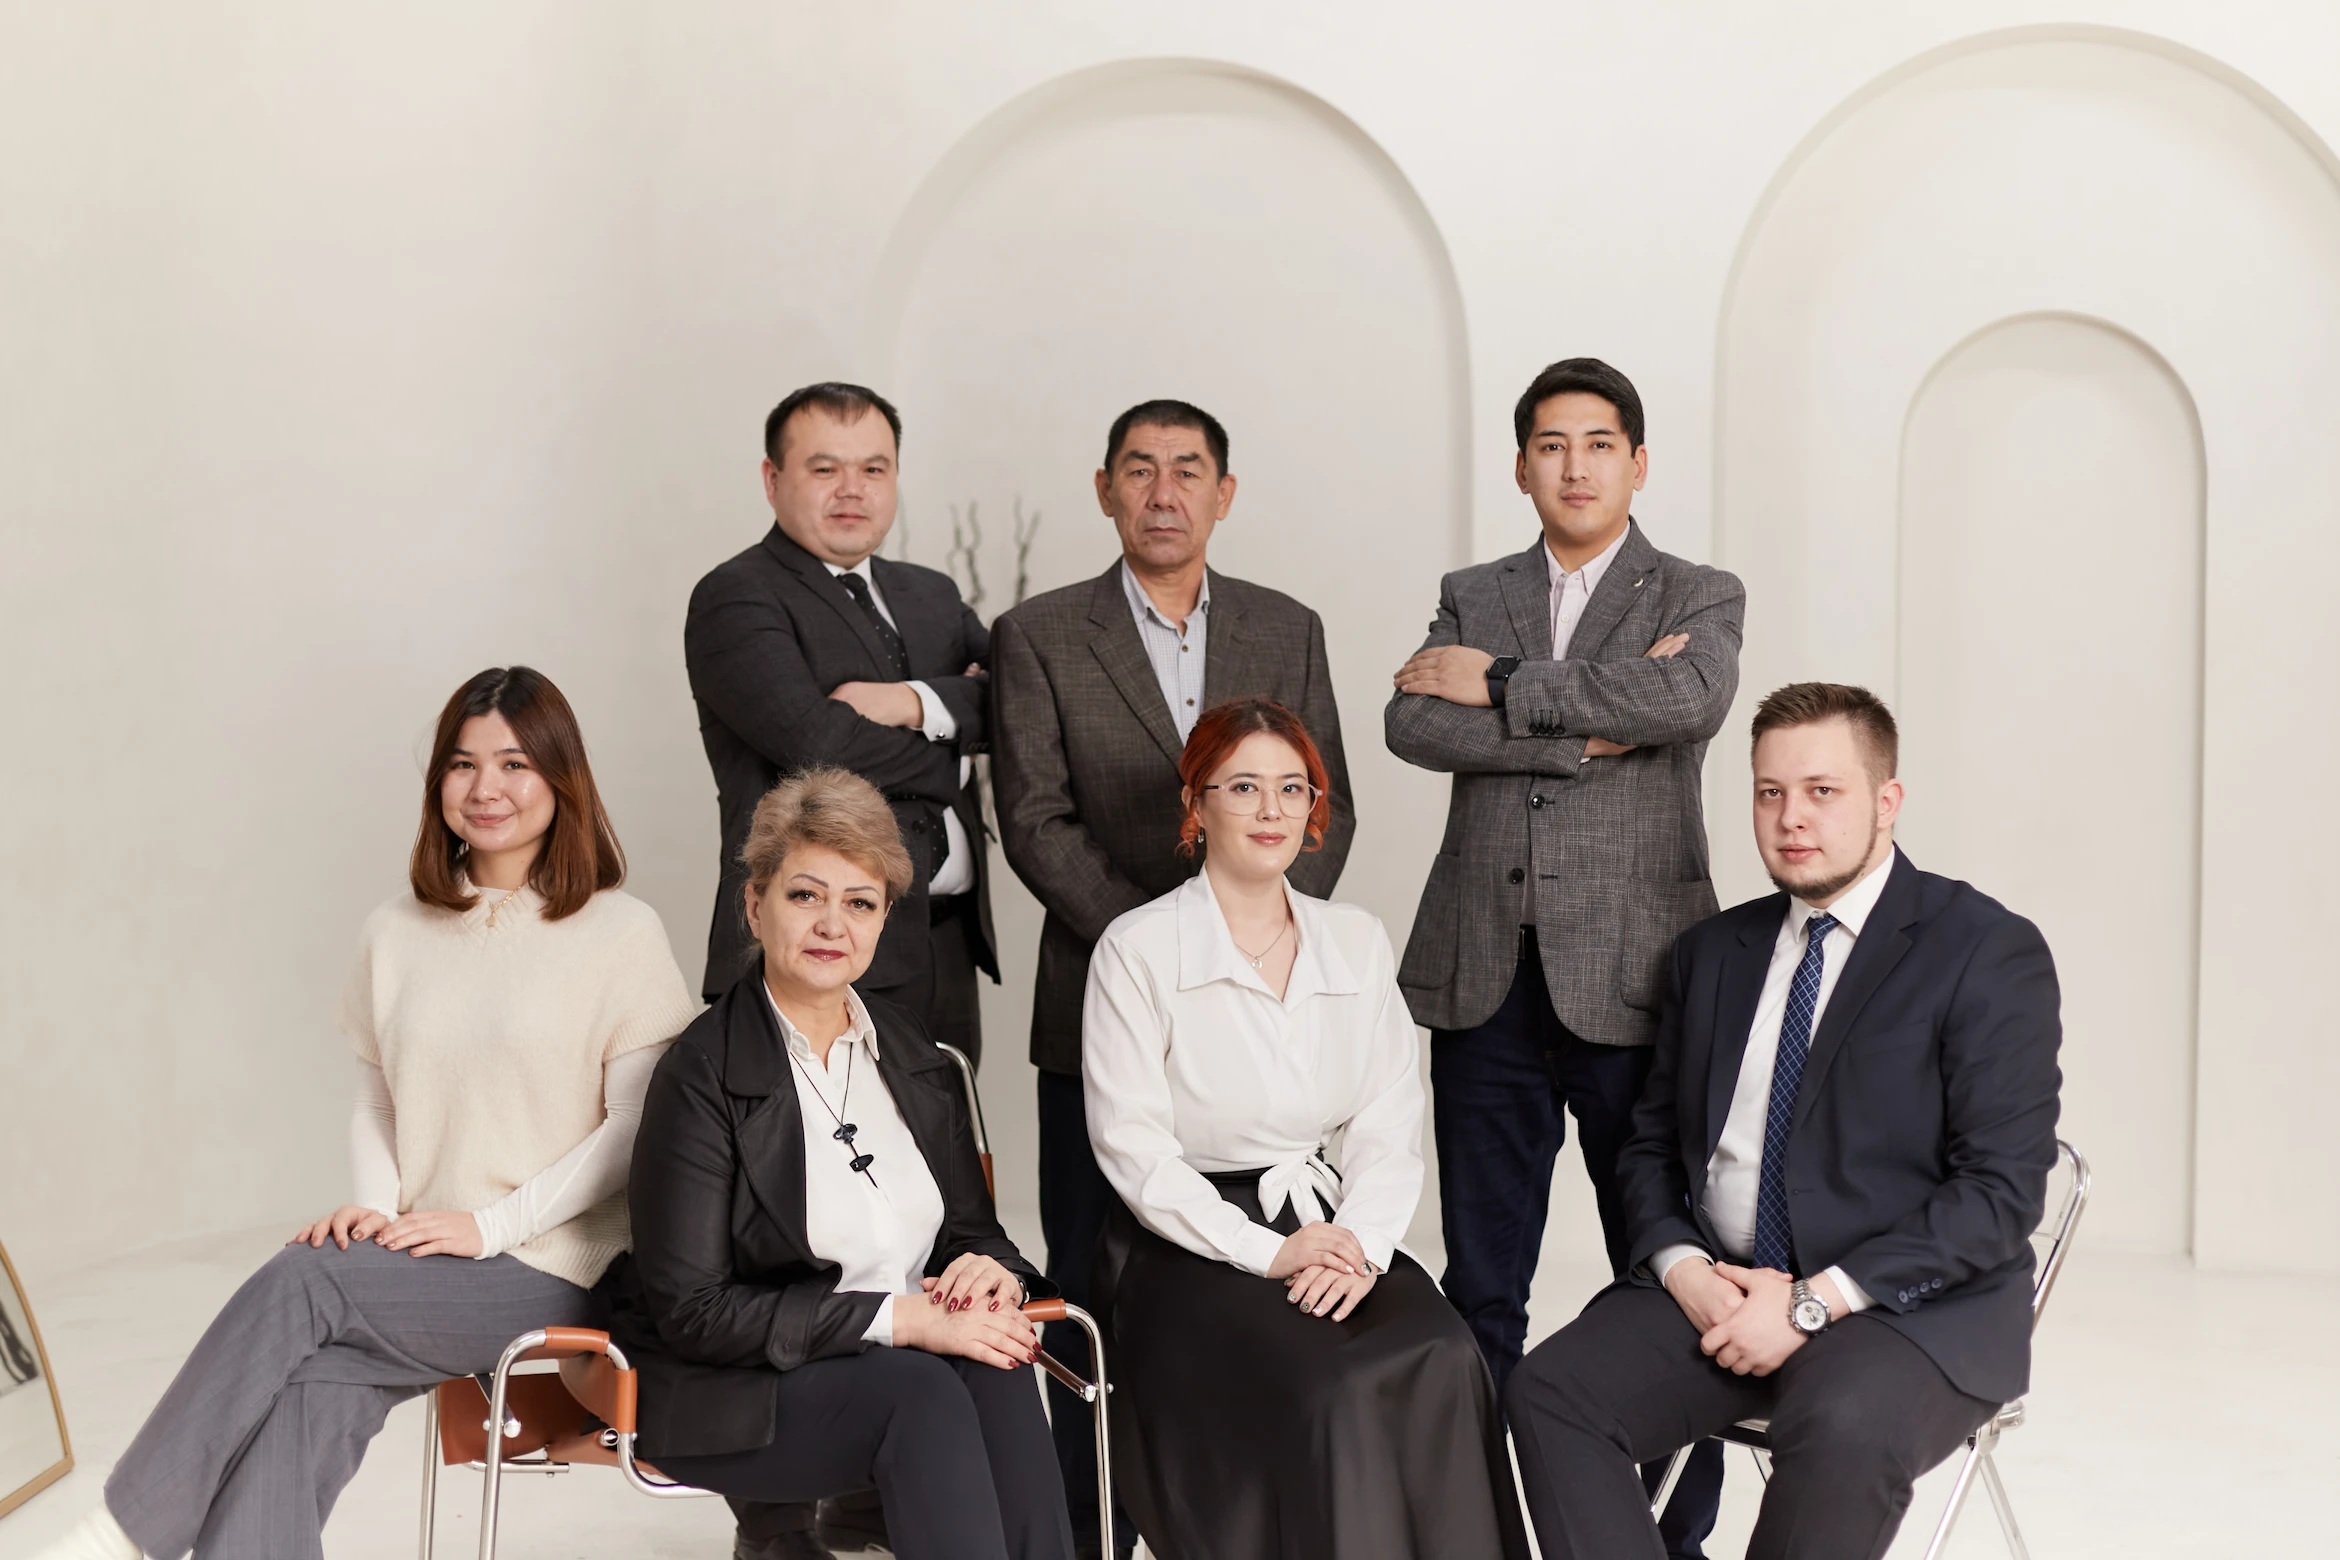
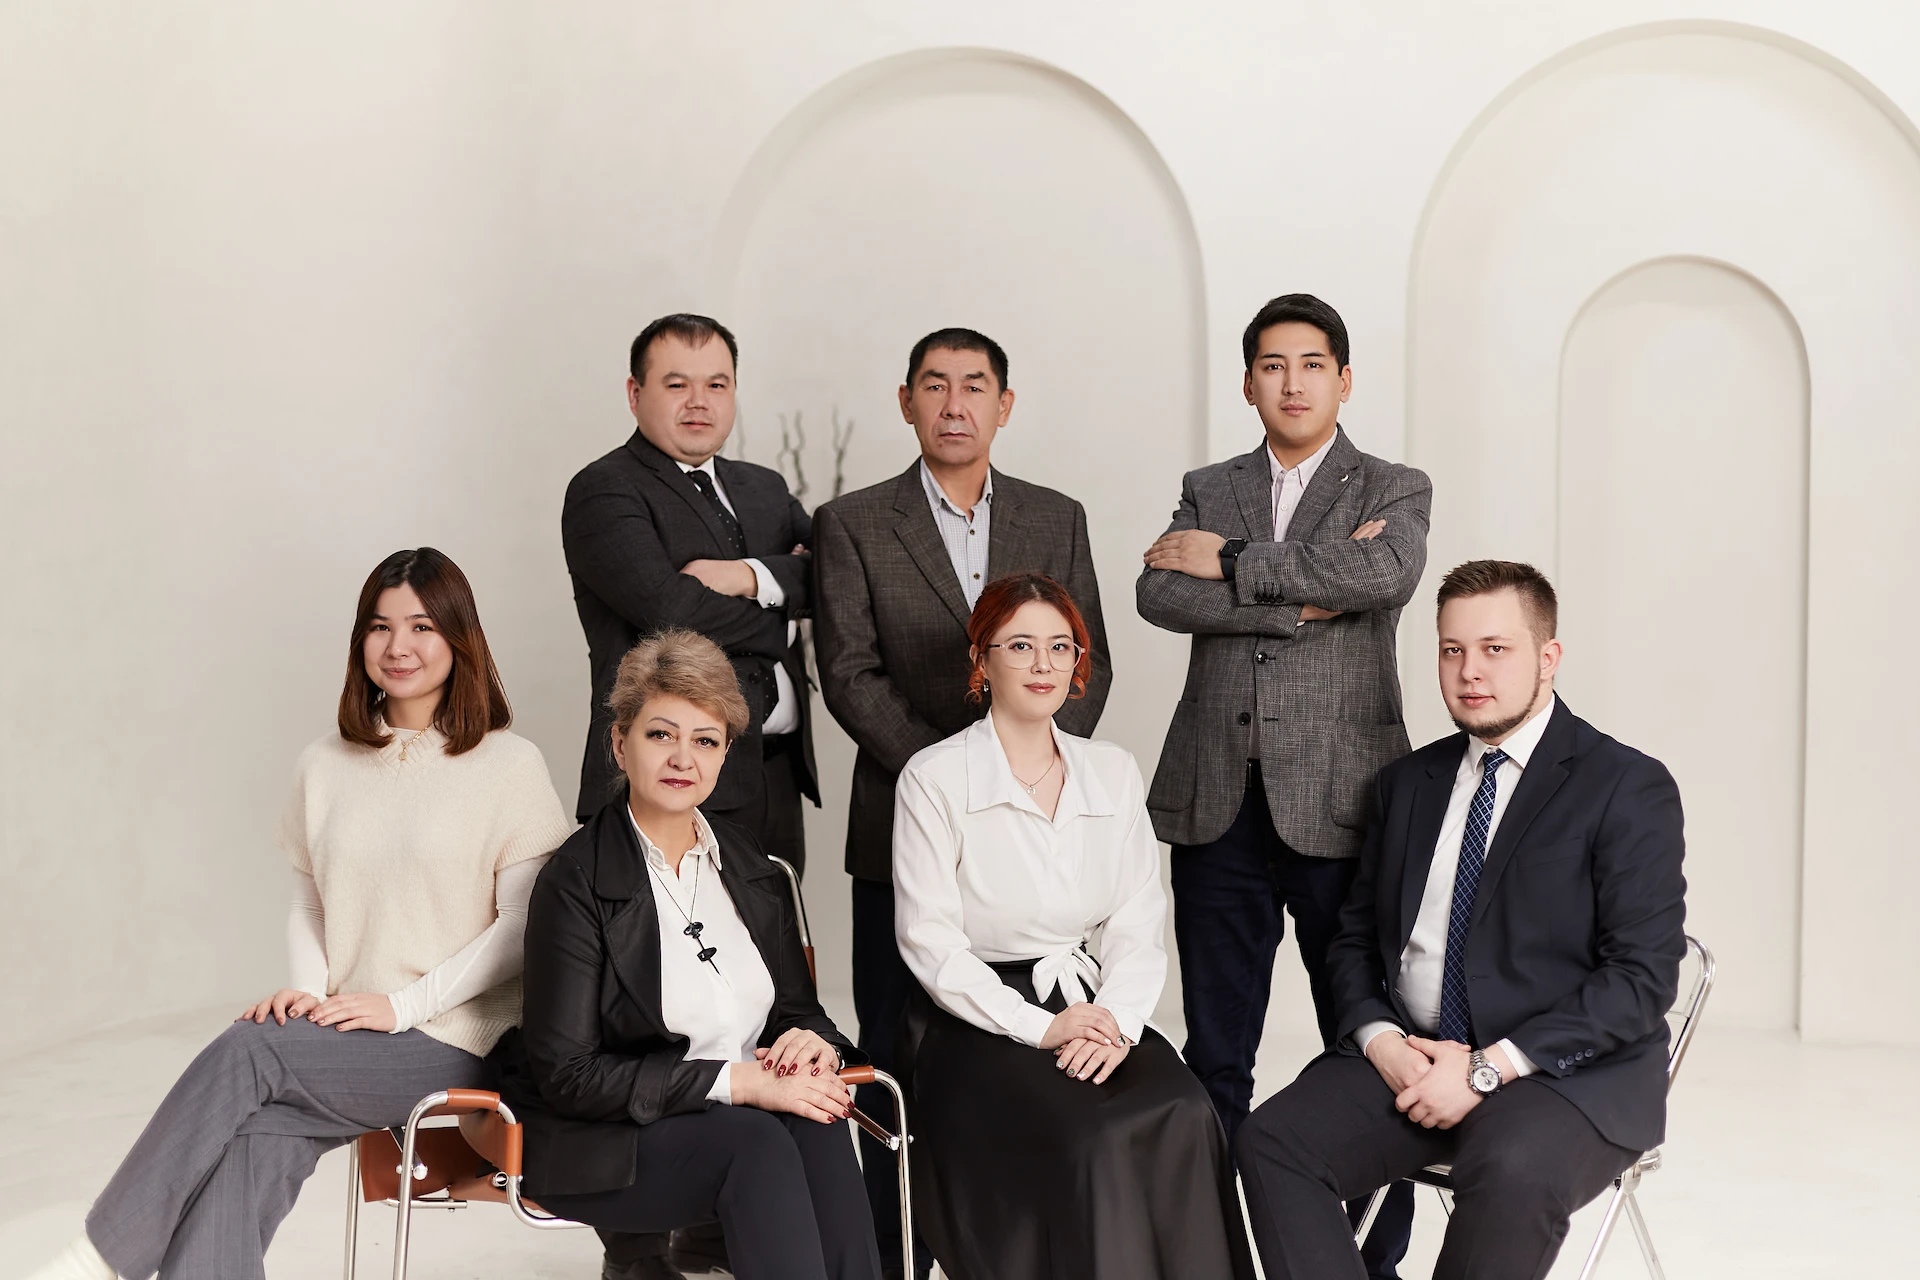
changed images to retouched images

diff --git a/src/data/team.data.js b/src/data/team.data.js
@@ -1,13 +1,13 @@
-import AkimImg from 'assets/images/team/akim.png';
-import AnnaImg from 'assets/images/team/anna.png';
-import AnvarImg from 'assets/images/team/anvar.png';
-import AzimImg from 'assets/images/team/azim.png';
-import KarinaImg from 'assets/images/team/karina.png';
-import MadinaImg from 'assets/images/team/madina.png';
-import NurlanImg from 'assets/images/team/nurlan.png';
-import OlgaImg from 'assets/images/team/olga.png';
-import SaraImg from 'assets/images/team/sara.png';
-import VovaImg from 'assets/images/team/vova.png';
+import AkimImg from 'assets/images/team/akim2.png';
+import AnnaImg from 'assets/images/team/anna2.png';
+import AnvarImg from 'assets/images/team/anvar2.png';
+import AzimImg from 'assets/images/team/azim2.png';
+import KarinaImg from 'assets/images/team/karina2.png';
+import MadinaImg from 'assets/images/team/madina2.png';
+import NurlanImg from 'assets/images/team/nurlan2.png';
+import OlgaImg from 'assets/images/team/olga2.png';
+import SaraImg from 'assets/images/team/sara2.png';
+import VovaImg from 'assets/images/team/vova2.png';
 
 export const teamData = [
   {

diff --git a/src/components/PromoSection/PromoSection.js b/src/components/PromoSection/PromoSection.js
@@ -7,18 +7,19 @@ const PromoSectionContent = Loadable(
   lazy(() => import('./PromoSectionContent')),
 );
 
-const StyledSection = styled('section')(({ theme }) => ({
+const StyledSection = styled('section')(({ theme, isFullHeight }) => ({
   position: 'relative',
-  height: '55vh',
+  height: isFullHeight ? '100vh' : '55vh',
+
   [theme.breakpoints.down('md')]: { height: '50vh' },
   [theme.breakpoints.down('sm')]: { height: '35vh' },
 }));
 
-const PromoSection = ({ title, bgImage }) => {
+const PromoSection = ({ title, bgImage, isFullHeight }) => {
   const [isLoaded, setIsLoaded] = useState(false);
 
   return (
-    <StyledSection>
+    <StyledSection isFullHeight={isFullHeight}>
       <PromoSectionContent title={title} bgImage={bgImage} />
       {!isLoaded && <Loader />}
 

diff --git a/src/pages/About/sections/AboutSection4.js b/src/pages/About/sections/AboutSection4.js
@@ -1,5 +1,5 @@
 import { Grid, styled, Typography, useTheme } from '@mui/material';
-import OurTeamImg from 'assets/images/mission2.webp';
+import OurMissionImg from 'assets/images/our_mission.webp';
 import LazyImage from 'components/LazyImage';
 import OrionContainer from 'components/OrionContainer';
 import React from 'react';
@@ -64,9 +64,9 @@ const AboutSection4 = () => {
           </Grid>
           <Grid item md={6} xs={12}>
             <LazyImage
-              className="aboutSection4Img"
-              src={OurTeamImg}
               alt="our team"
+              src={OurMissionImg}
+              className="aboutSection4Img"
             />
           </Grid>
         </Grid>

diff --git a/src/pages/About/index.js b/src/pages/About/index.js
@@ -1,4 +1,4 @@
-import AboutBg from 'assets/images/backgrounds/about2.webp';
+import AboutBg from 'assets/images/backgrounds/about.webp';
 import OurTeamBg from 'assets/images/backgrounds/our_team.webp';
 import PromoSection from 'components/PromoSection/PromoSection';
 import StatisticsSection from 'components/StatisticsSection';
@@ -37,7 +37,7 @@ const About = () => {
       <AboutSection7 />
       <AboutSection8 />
       <TestimonialsSection />
-      <PromoSection title={t('about.promo2')} bgImage={OurTeamBg} />
+      <PromoSection isFullHeight title={t('about.promo2')} bgImage={OurTeamBg} />
       <AboutSection9 />
     </>
   );

diff --git a/src/pages/About/sections/AboutSection5.js b/src/pages/About/sections/AboutSection5.js
@@ -6,7 +6,7 @@ import {
   useMediaQuery,
   useTheme,
 } from '@mui/material';
-import TeamImg from 'assets/images/goal.webp';
+import OurGoalImg from 'assets/images/our_goal.webp';
 import { FlexBox } from 'components/FlexBox';
 import LazyImage from 'components/LazyImage';
 import OrionContainer from 'components/OrionContainer';
@@ -77,7 +77,7 @@ const AboutSection5 = () => {
                 <Divider />
                 <LazyImage
                   alt="team"
-                  src={TeamImg}
+                  src={OurGoalImg}
                   className="aboutSection5Img"
                 />
               </div>

diff --git a/src/pages/Home/sections/HomeSection6.js b/src/pages/Home/sections/HomeSection6.js
@@ -7,7 +7,7 @@ import {
   Typography,
   useTheme,
 } from '@mui/material';
-import OfficeImg from 'assets/images/office.webp';
+import OfficeImg from 'assets/images/backgrounds/our_team.webp';
 import DefaultButton from 'components/DefaultButton';
 import { FlexGap10 } from 'components/FlexBox';
 import LazyImage from 'components/LazyImage';
